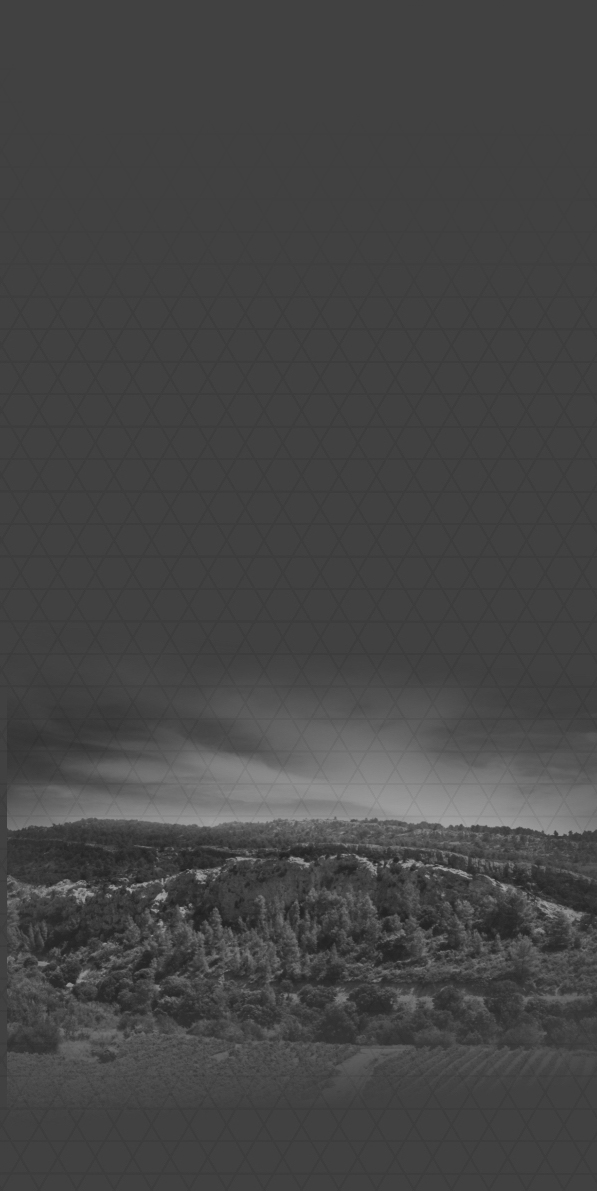
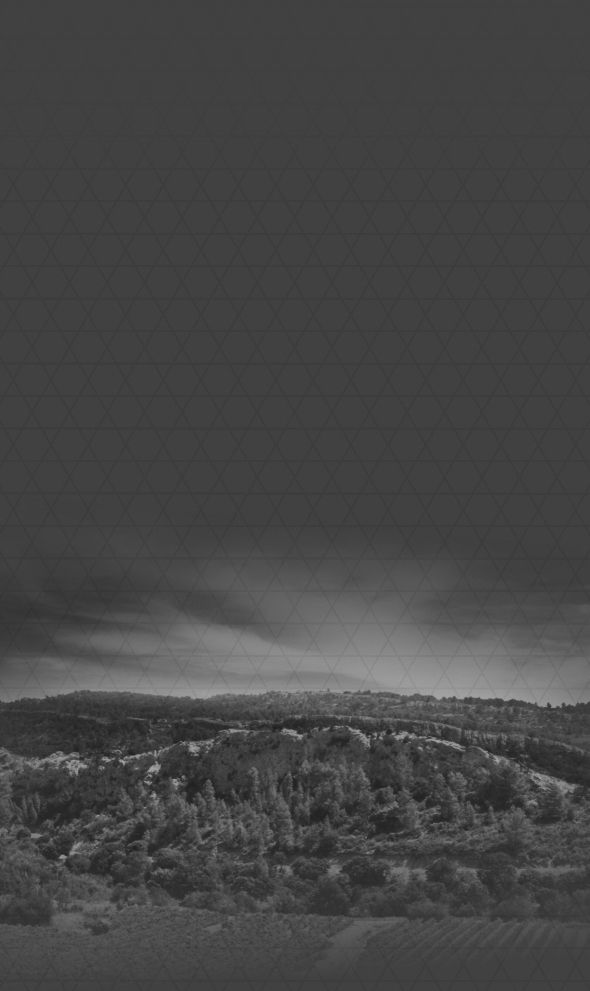
Update style

Changed region(s): [[0.0, 0.666, 1.0, 0.9687], [0.8237, 0.8779, 0.8542, 0.9082]]

diff --git a/wine-space/css/component.css b/wine-space/css/component.css
@@ -27,6 +27,18 @@
 	box-sizing: border-box;
 }
 
+::-webkit-scrollbar {
+	display: none;
+}
+::-webkit-scrollbar-track {
+  display: none;
+}
+::-webkit-scrollbar-thumb {
+  display: none;
+}
+ 
+html {overflow: -moz-scrollbars-none;}
+
 
 /* Helper classes */
 
@@ -399,8 +411,15 @@ body #cdawrap a:hover.carbon-poweredby {
     background-image: url('http://pierre-charles.com/BrainFactory/EspaceVin/wp-content/themes/wine-space/images/menu-background.jpg');
     background-size: 100% auto;
     background-repeat: no-repeat;
-    background-position: center top;
+    background-position: center bottom;
 }
+
+@media screen and (max-height: 540px) and (min-width: 60rem) {
+  .menu {
+	  background-position: center top;
+  }
+}
+
 
 .menu__wrap {
 	position: absolute;
@@ -420,7 +439,8 @@ body #cdawrap a:hover.carbon-poweredby {
 	width: calc(100% + 0rem);
 	height: 100%;
 	margin: 0;
-	padding: 0 0 3rem 0;
+	/* padding: 0 0 3rem 0; */
+	padding: 0;
 	list-style-type: none;
 }
 

diff --git a/wine-space/woocommerce/myaccount/view-order.php b/wine-space/woocommerce/myaccount/view-order.php
@@ -28,6 +28,10 @@ if ( ! defined( 'ABSPATH' ) ) {
 		padding: 0 !important;
 	}
 	
+	#primary .order-content{
+		padding: 2rem;
+	}
+	
 	#primary .entry-content {
 		padding: 2rem;
 	}
@@ -107,28 +111,33 @@ if ( ! defined( 'ABSPATH' ) ) {
 	}
 </style>
 
-<p class="order-info"><?php printf( __( 'Order #<mark class="order-number">%s</mark> was placed on <mark class="order-date">%s</mark> and is currently <mark class="order-status">%s</mark>.', 'woocommerce' ), $order->get_order_number(), date_i18n( get_option( 'date_format' ), strtotime( $order->order_date ) ), wc_get_order_status_name( $order->get_status() ) ); ?></p>
+	<h1>Détails de la commande <?php echo $order_id ?></h1>
 
-<?php if ( $notes = $order->get_customer_order_notes() ) :
-	?>
-	<h2><?php _e( 'Order Updates', 'woocommerce' ); ?></h2>
-	<ol class="commentlist notes">
-		<?php foreach ( $notes as $note ) : ?>
-		<li class="comment note">
-			<div class="comment_container">
-				<div class="comment-text">
-					<p class="meta"><?php echo date_i18n( __( 'l jS \o\f F Y, h:ia', 'woocommerce' ), strtotime( $note->comment_date ) ); ?></p>
-					<div class="description">
-						<?php echo wpautop( wptexturize( $note->comment_content ) ); ?>
+	<div class="order-content">
+		<p class="order-info"><?php printf( __( 'Order #<mark class="order-number">%s</mark> was placed on <mark class="order-date">%s</mark> and is currently <mark class="order-status">%s</mark>.', 'woocommerce' ), $order->get_order_number(), date_i18n( get_option( 'date_format' ), strtotime( $order->order_date ) ), wc_get_order_status_name( $order->get_status() ) ); ?></p>
+
+		<?php if ( $notes = $order->get_customer_order_notes() ) :
+			?>
+			<h2><?php _e( 'Order Updates', 'woocommerce' ); ?></h2>
+			<ol class="commentlist notes">
+				<?php foreach ( $notes as $note ) : ?>
+				<li class="comment note">
+					<div class="comment_container">
+						<div class="comment-text">
+							<p class="meta"><?php echo date_i18n( __( 'l jS \o\f F Y, h:ia', 'woocommerce' ), strtotime( $note->comment_date ) ); ?></p>
+							<div class="description">
+								<?php echo wpautop( wptexturize( $note->comment_content ) ); ?>
+							</div>
+			  				<div class="clear"></div>
+			  			</div>
+						<div class="clear"></div>
 					</div>
-	  				<div class="clear"></div>
-	  			</div>
-				<div class="clear"></div>
-			</div>
-		</li>
-		<?php endforeach; ?>
-	</ol>
-	<?php
-endif;
+				</li>
+				<?php endforeach; ?>
+			</ol>
+			<?php
+		endif;
 
-do_action( 'woocommerce_view_order', $order_id );
+		do_action( 'woocommerce_view_order', $order_id ); ?>
+		
+	</div>

diff --git a/wine-space/woocommerce/myaccount/form-edit-address.php b/wine-space/woocommerce/myaccount/form-edit-address.php
@@ -45,6 +45,18 @@ get_currentuserinfo();
 	    padding: 1rem 2rem;
 	    font-size: 1.7rem;
 	    color: #000;
+		width: 100%;
+	    margin: 0 auto;
+	    text-align: center;
+    }
+    
+    #primary .myaccount-content form h3 {
+	    text-align: center;
+    }
+    
+    #primary .myaccount-content form label {
+	    display: block;
+		margin: 2rem auto 1rem auto;
     }
     
     @media screen and (max-width: 60em){
@@ -73,6 +85,8 @@ get_currentuserinfo();
 	<?php wc_get_template( 'myaccount/my-address.php' ); ?>
 
 <?php else : ?>
+
+<h1>Editer mon adresse</h1>
 
 <div class="myaccount-content">
 

diff --git a/wine-space/woocommerce/notices/success.php b/wine-space/woocommerce/notices/success.php
@@ -20,7 +20,7 @@ if ( ! $messages ){
 <style>
 div.woocommerce-message{
 	padding: 2rem 1.2rem;
-    text-align: left;
+    text-align: center;
     list-style: none;
     background-color: #b7a56d;
     color: #fff;

diff --git a/wine-space/woocommerce/notices/error.php b/wine-space/woocommerce/notices/error.php
@@ -20,7 +20,7 @@ if ( ! $messages ){
 <style>
 ul.woocommerce-error{
 	padding: 2rem 1.2rem;
-    text-align: left;
+    text-align: center;
     list-style: none;
     background-color: #b7a56d;
     color: #fff;

diff --git a/wine-space/woocommerce/notices/notice.php b/wine-space/woocommerce/notices/notice.php
@@ -20,7 +20,7 @@ if ( ! $messages ){
 <style>
 div.woocommerce-info{
 	padding: 2rem 1.2rem;
-    text-align: left;
+    text-align: center;
     list-style: none;
     background-color: #b7a56d;
     color: #fff;

diff --git a/wine-space/woocommerce/order/order-details.php b/wine-space/woocommerce/order/order-details.php
@@ -100,7 +100,6 @@ $order = wc_get_order( $order_id );
 }
 	
 </style>
-
 <h2><?php _e( 'Order Details', 'woocommerce' ); ?></h2>
 <table class="shop_table order_details">
 	<thead>
